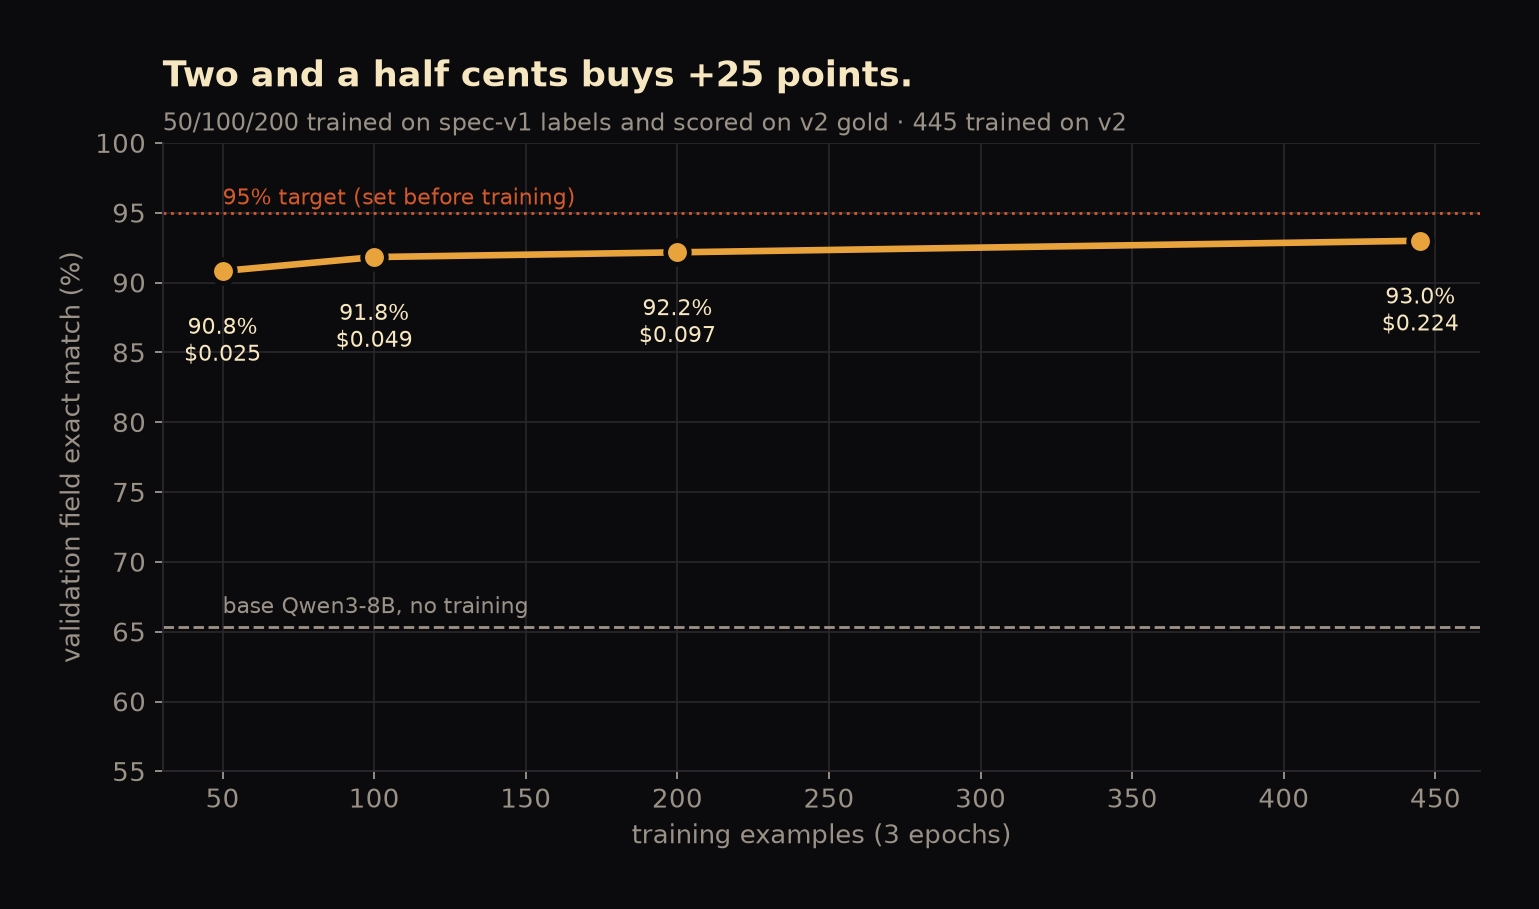
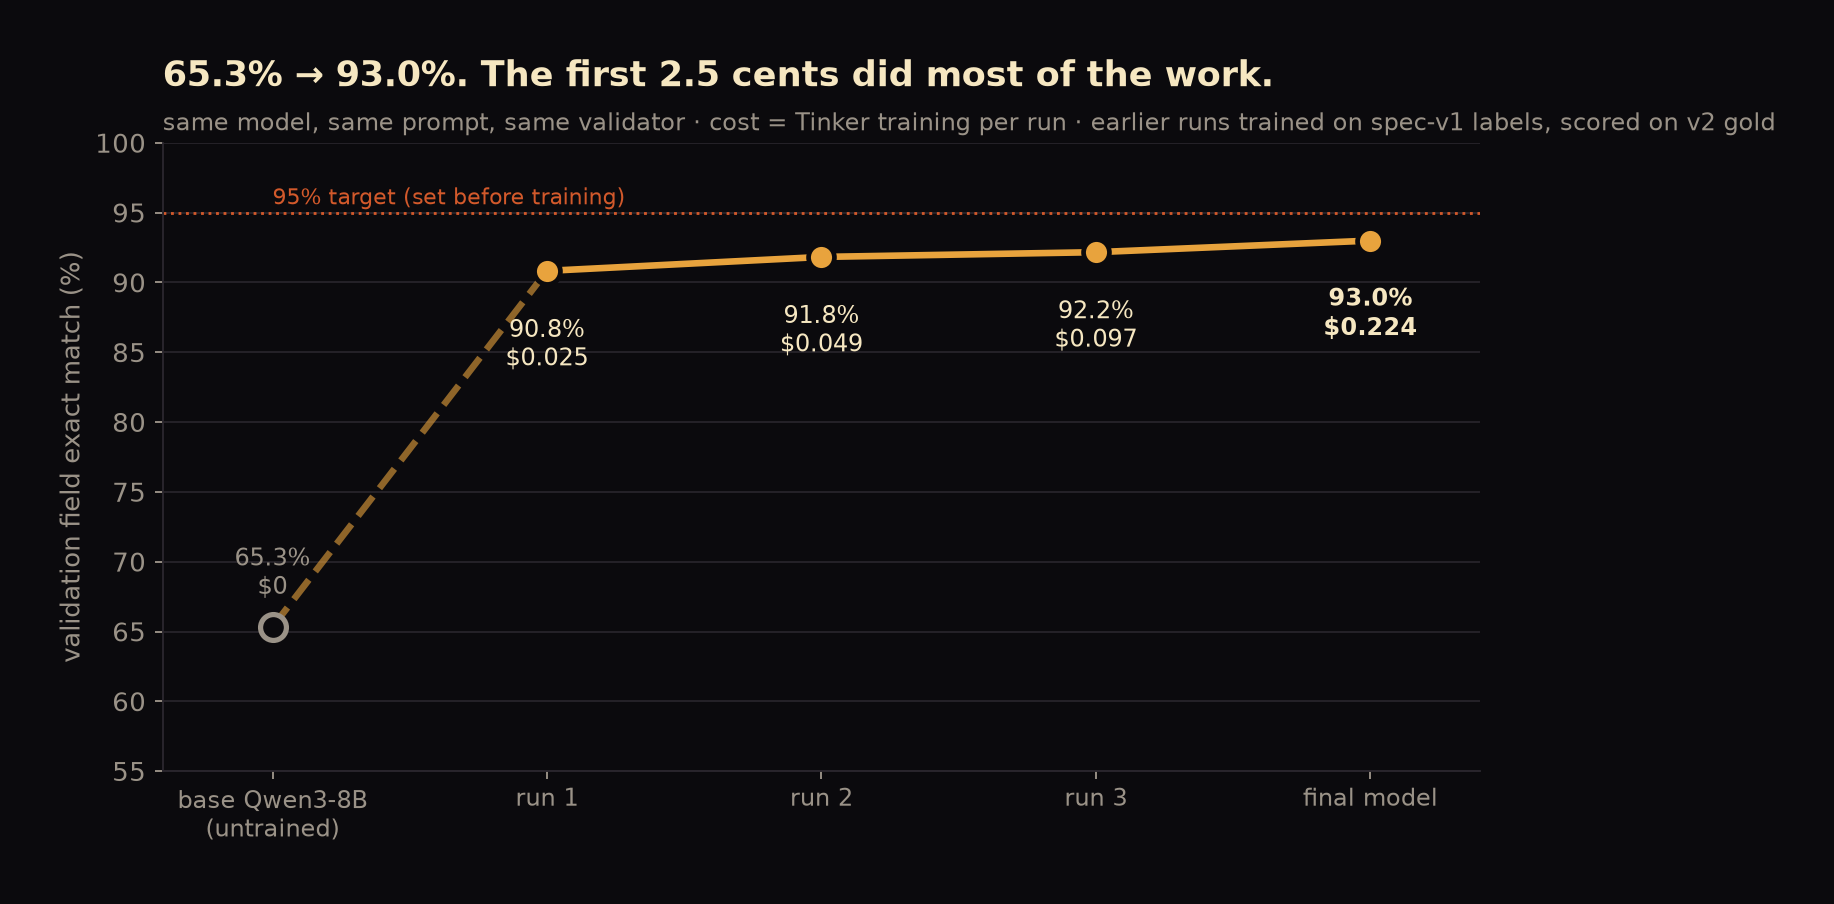
post: learning curve by run (no example counts), 65.3% -> 93.0% narrative

diff --git a/scripts/make_post_charts.py b/scripts/make_post_charts.py
@@ -164,18 +164,27 @@ def main():
     title(ax, "It stopped inventing channel IDs and started quoting sources.", "task A per field · 72 held-out passages · 576 field cells")
     save(fig, "task_a_fields.png")
 
-    # 9 learning curve ------------------------------------------------------------------------------------
+    # 9 learning curve (run-based axis; no example counts) ---------------------------------------------
     lc = J("tinker_learning_curve.json")
     pts = sorted([p for p in lc["points"] if p["run"].startswith("lc-") or p["run"] == "final-v2"], key=lambda p: p["n_examples"])
+    base = lc["base_model_val_exact_match_local"] * 100
+    labels = ["base Qwen3-8B\n(untrained)"] + [f"run {i + 1}" for i in range(len(pts) - 1)] + ["final model"]
+    ys = [base] + [p["val_exact_match"] * 100 for p in pts]
+    costs = [None] + [p["cost_usd"] for p in pts]
+    xs = list(range(len(ys)))
     fig, ax = plt.subplots(figsize=(10, 4.8))
-    ax.axhline(lc["base_model_val_exact_match_local"] * 100, color=MUTED, ls="--", lw=1.2)
-    ax.text(pts[0]["n_examples"], lc["base_model_val_exact_match_local"] * 100 + 1, "base Qwen3-8B, no training", color=MUTED, fontsize=9.5)
-    ax.axhline(95, color=EMBER, ls=":", lw=1.2); ax.text(pts[0]["n_examples"], 95.6, "95% target (set before training)", color=EMBER, fontsize=9.5)
-    ax.plot([p["n_examples"] for p in pts], [p["val_exact_match"] * 100 for p in pts], color=GOLD, lw=2.8, marker="o", ms=10, mec=BG, mew=2)
-    for p in pts:
-        ax.annotate(f"{p['val_exact_match']*100:.1f}%\n${p['cost_usd']:.3f}", (p["n_examples"], p["val_exact_match"] * 100), textcoords="offset points", xytext=(0, -38), ha="center", fontsize=9.5, color=INK)
-    ax.set_ylim(55, 100); ax.set_xlabel("training examples (3 epochs)"); ax.set_ylabel("validation field exact match (%)")
-    title(ax, "Two and a half cents buys +25 points.", "50/100/200 trained on spec-v1 labels and scored on v2 gold · 445 trained on v2")
+    ax.axhline(95, color=EMBER, ls=":", lw=1.2); ax.text(0, 95.6, "95% target (set before training)", color=EMBER, fontsize=9.5)
+    ax.plot(xs[:2], ys[:2], color=GOLD, lw=2.8, ls="--", alpha=0.6)
+    ax.plot(xs[1:], ys[1:], color=GOLD, lw=2.8)
+    ax.scatter(xs[:1], ys[:1], s=120, color=BG, edgecolor=MUTED, lw=2.2, zorder=3)
+    ax.scatter(xs[1:], ys[1:], s=120, color=GOLD, edgecolor=BG, lw=2, zorder=3)
+    for x, y, c in zip(xs, ys, costs):
+        ax.annotate(f"{y:.1f}%" + (f"\n${c:.3f}" if c is not None else "\n$0"), (x, y), textcoords="offset points",
+                    xytext=(0, -40 if x else 14), ha="center", fontsize=10, color=INK if x else MUTED, fontweight="bold" if x == xs[-1] else None)
+    ax.set_xticks(xs); ax.set_xticklabels(labels, fontsize=10); ax.set_xlim(-0.4, xs[-1] + 0.4)
+    ax.set_ylim(55, 100); ax.set_ylabel("validation field exact match (%)"); ax.grid(axis="x", visible=False)
+    title(ax, f"{base:.1f}% → {ys[-1]:.1f}%. The first 2.5 cents did most of the work.",
+          "same model, same prompt, same validator · cost = Tinker training per run · earlier runs trained on spec-v1 labels, scored on v2 gold")
     save(fig, "learning_curve.png")
 
     # 10 cost breakdown ----------------------------------------------------------------------------------

diff --git a/dev/the-last-satellite.md b/dev/the-last-satellite.md
@@ -286,19 +286,21 @@ op = tc.optim_step(tinker.AdamParams(learning_rate=lr_t, beta1=0.9, beta2=0.95, 
 - **Split by document family, never by chunk:** the test documents (the benchmark paper plus Wikipedia) never appear in training, and the paper's arXiv preprint is **excluded everywhere** as a near-duplicate.
 - **Budget guard:** it prices every job from local token counts *before* submitting and refuses anything over the cap. I started with **$0.93**.
 
-### 5. Find the knee of the curve
+### 5. 65.3% → 93.0%: find the knee of the curve
 
-![Two and a half cents buys +25 points.](https://raw.githubusercontent.com/advikdivekar/wake/main/docs/charts/learning_curve.png)
+I didn't train once and hope. I trained in stages, scored every run on the same validation set, and priced each one:
+
+![65.3% → 93.0%. The first 2.5 cents did most of the work.](https://raw.githubusercontent.com/advikdivekar/wake/main/docs/charts/learning_curve.png)
 
 | Run | Est. cost | Validation field exact match |
 |---|---|---|
 | base Qwen3-8B, untrained | n/a | 65.3% |
-| smallest run | $0.025 | 90.8% |
+| run 1 | $0.025 | 90.8% |
 | run 2 | $0.049 | 91.8% |
 | run 3 | $0.097 | 92.2% |
 | **final model** | **$0.224** | **93.0%** |
 
-**Two and a half cents of training buys +25 points.** Everything after that is the last few points, bought cheaply.
+**The first 2.5 cents of training took the model from 65.3% to 90.8%.** Every run after that added another point or so, and the final model landed at **93.0%**, all inside an 83-cent budget.
 
 ### 6. Validation error analysis found *my* bugs
 
